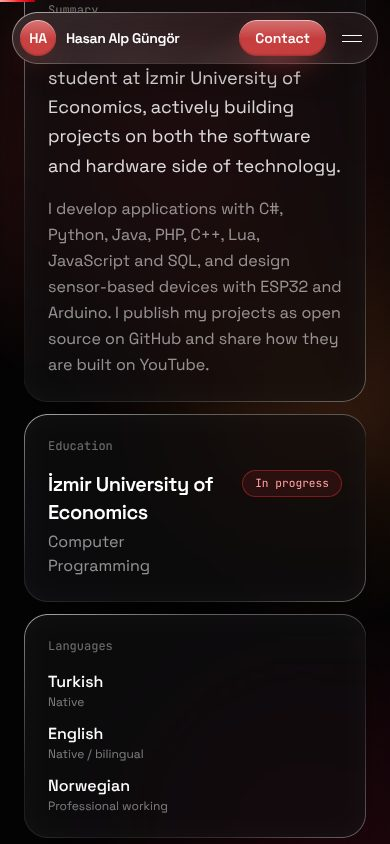
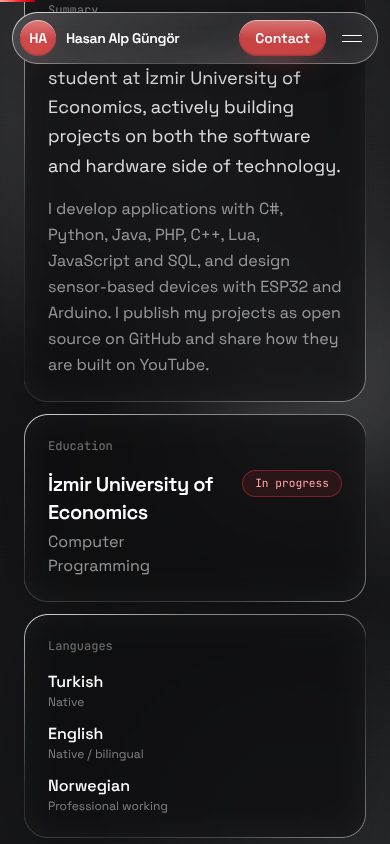
Gri ve beyaz liquid glass zemini
Arka plandaki kırmızı ışık gümüş ve beyaz tonlara çevrildi, cam yüzeyler daha buzlu ve parlak hale getirildi. Kartlardaki kırmızı parıltılar beyaza dönüştü.

diff --git a/app/globals.css b/app/globals.css
@@ -84,14 +84,14 @@ h2.ui-title-xl { font-size: clamp(2.6rem, 1.3rem + 5.6vw, 6.5rem); }
 }
 .ui-card,
 .glass {
-  background: linear-gradient(145deg, rgba(255, 255, 255, 0.09), rgba(255, 255, 255, 0.025) 55%, rgba(255, 255, 255, 0.05));
-  -webkit-backdrop-filter: blur(24px) saturate(180%);
-  backdrop-filter: blur(24px) saturate(180%);
+  background: linear-gradient(150deg, rgba(255, 255, 255, 0.14), rgba(255, 255, 255, 0.04) 50%, rgba(255, 255, 255, 0.08));
+  -webkit-backdrop-filter: blur(30px) saturate(160%) brightness(1.08);
+  backdrop-filter: blur(30px) saturate(160%) brightness(1.08);
   box-shadow:
-    inset 0 1px 0 rgba(255, 255, 255, 0.28),
-    inset 0 -1px 0 rgba(255, 255, 255, 0.06),
-    inset 0 0 24px rgba(255, 255, 255, 0.03),
-    0 18px 50px -20px rgba(0, 0, 0, 0.75);
+    inset 0 1px 0 rgba(255, 255, 255, 0.42),
+    inset 0 -1px 0 rgba(255, 255, 255, 0.1),
+    inset 0 0 32px rgba(255, 255, 255, 0.05),
+    0 20px 50px -22px rgba(0, 0, 0, 0.6);
   transition: background 0.35s ease, box-shadow 0.35s ease, transform 0.35s ease;
 }
 .glass { position: relative; }
@@ -103,7 +103,7 @@ h2.ui-title-xl { font-size: clamp(2.6rem, 1.3rem + 5.6vw, 6.5rem); }
   inset: 0;
   border-radius: inherit;
   padding: 1px;
-  background: linear-gradient(135deg, rgba(255, 255, 255, 0.5), rgba(255, 255, 255, 0.08) 30%, rgba(255, 255, 255, 0) 55%, rgba(255, 255, 255, 0.08) 75%, rgba(255, 255, 255, 0.32));
+  background: linear-gradient(135deg, rgba(255, 255, 255, 0.7), rgba(255, 255, 255, 0.12) 30%, rgba(255, 255, 255, 0.02) 55%, rgba(255, 255, 255, 0.12) 75%, rgba(255, 255, 255, 0.45));
   -webkit-mask: linear-gradient(#000 0 0) content-box, linear-gradient(#000 0 0);
   -webkit-mask-composite: xor;
   mask: linear-gradient(#000 0 0) content-box, linear-gradient(#000 0 0);
@@ -111,9 +111,9 @@ h2.ui-title-xl { font-size: clamp(2.6rem, 1.3rem + 5.6vw, 6.5rem); }
   pointer-events: none;
 }
 .ui-card:hover {
-  background: linear-gradient(145deg, rgba(255, 255, 255, 0.13), rgba(255, 255, 255, 0.04) 55%, rgba(255, 255, 255, 0.07));
+  background: linear-gradient(150deg, rgba(255, 255, 255, 0.19), rgba(255, 255, 255, 0.06) 50%, rgba(255, 255, 255, 0.1));
   box-shadow:
-    inset 0 1px 0 rgba(255, 255, 255, 0.4),
+    inset 0 1px 0 rgba(255, 255, 255, 0.55),
     inset 0 -1px 0 rgba(255, 255, 255, 0.08),
     inset 0 0 30px rgba(255, 255, 255, 0.05),
     0 24px 60px -20px rgba(0, 0, 0, 0.8);
@@ -140,7 +140,7 @@ h2.ui-title-xl { font-size: clamp(2.6rem, 1.3rem + 5.6vw, 6.5rem); }
   box-shadow:
     inset 0 1px 0 rgba(255, 255, 255, 0.55),
     inset 0 -1px 2px rgba(0, 0, 0, 0.25),
-    0 10px 30px -10px rgba(239, 68, 68, 0.7);
+    0 10px 26px -12px rgba(239, 68, 68, 0.55);
   transition: transform 0.25s cubic-bezier(0.2, 0.8, 0.2, 1), box-shadow 0.25s ease, background 0.25s ease;
 }
 .ui-btn { --icon-cut: #e0443c; }
@@ -150,7 +150,7 @@ h2.ui-title-xl { font-size: clamp(2.6rem, 1.3rem + 5.6vw, 6.5rem); }
   box-shadow:
     inset 0 1px 0 rgba(255, 255, 255, 0.65),
     inset 0 -1px 2px rgba(0, 0, 0, 0.25),
-    0 14px 36px -10px rgba(239, 68, 68, 0.85);
+    0 14px 32px -12px rgba(239, 68, 68, 0.7);
 }
 .ui-btn:active { transform: scale(0.97); }
 .ui-btn--ghost {
@@ -347,14 +347,14 @@ a.rounded-full:focus-visible { border-radius: 999px; }
   }
 }
 
-/* Liquid backdrop: slow, blurred red light that the glass refracts. */
+/* Liquid backdrop: slow, blurred silver light that the glass refracts. */
 .liquid-bg {
   position: fixed;
   inset: 0;
   z-index: -1;
   overflow: hidden;
   pointer-events: none;
-  background: #050304;
+  background: linear-gradient(160deg, #26272b 0%, #161618 45%, #1d1e21 100%);
 }
 .liquid-bg span {
   position: absolute;
@@ -362,16 +362,16 @@ a.rounded-full:focus-visible { border-radius: 999px; }
   will-change: transform;
   animation: liquid-drift 26s ease-in-out infinite alternate;
 }
-.liquid-bg span:nth-child(1) { width: 60vmax; height: 60vmax; left: -12vmax; top: -18vmax; background: radial-gradient(closest-side, rgba(239, 68, 68, 0.55), transparent); }
-.liquid-bg span:nth-child(2) { width: 52vmax; height: 52vmax; right: -16vmax; top: 18vh; background: radial-gradient(closest-side, rgba(249, 115, 22, 0.32), transparent); animation-duration: 32s; animation-delay: -8s; }
-.liquid-bg span:nth-child(3) { width: 58vmax; height: 58vmax; left: 18vw; bottom: -30vmax; background: radial-gradient(closest-side, rgba(190, 18, 60, 0.5), transparent); animation-duration: 38s; animation-delay: -14s; }
-.liquid-bg span:nth-child(4) { width: 34vmax; height: 34vmax; left: 46vw; top: 30vh; background: radial-gradient(closest-side, rgba(255, 140, 120, 0.18), transparent); animation-duration: 22s; animation-delay: -4s; }
-/* Darkens the light so text stays readable. */
+.liquid-bg span:nth-child(1) { width: 62vmax; height: 62vmax; left: -14vmax; top: -20vmax; background: radial-gradient(closest-side, rgba(255, 255, 255, 0.26), transparent); }
+.liquid-bg span:nth-child(2) { width: 54vmax; height: 54vmax; right: -18vmax; top: 16vh; background: radial-gradient(closest-side, rgba(210, 214, 222, 0.22), transparent); animation-duration: 32s; animation-delay: -8s; }
+.liquid-bg span:nth-child(3) { width: 60vmax; height: 60vmax; left: 16vw; bottom: -32vmax; background: radial-gradient(closest-side, rgba(170, 174, 184, 0.24), transparent); animation-duration: 38s; animation-delay: -14s; }
+.liquid-bg span:nth-child(4) { width: 36vmax; height: 36vmax; left: 46vw; top: 28vh; background: radial-gradient(closest-side, rgba(255, 255, 255, 0.14), transparent); animation-duration: 22s; animation-delay: -4s; }
+/* Keeps white text readable on top of the light. */
 .liquid-bg::after {
   content: '';
   position: absolute;
   inset: 0;
-  background: radial-gradient(120% 90% at 50% 40%, rgba(3, 3, 3, 0.35), rgba(3, 3, 3, 0.78));
+  background: radial-gradient(120% 90% at 50% 40%, rgba(12, 12, 14, 0.1), rgba(12, 12, 14, 0.5));
 }
 @keyframes liquid-drift {
   0% { transform: translate3d(0, 0, 0) scale(1); }

diff --git a/lib/data.ts b/lib/data.ts
@@ -27,7 +27,7 @@ export const CONCEPTS: Concept[] = [
     repo: `${GH}/s26-ultra-concept`,
     img: '/projects/s26-ultra.jpg',
     shot: true,
-    glow: 'radial-gradient(60% 60% at 50% 50%, rgba(239, 68, 68, 0.22), transparent 72%)',
+    glow: 'radial-gradient(60% 60% at 50% 50%, rgba(255, 255, 255, 0.14), transparent 72%)',
     text: {
       tr: 'Telefonu scroll\'ladıkça dönen ve parçalarına ayrılan bir 3D modele dönüştürdüm. S25 Ultra ile karşılaştırma, renk seçici ve AR görüntüleme de ekledim.',
       en: 'I turned the phone into a 3D model that turns and comes apart as you scroll, and added an S25 Ultra comparison, a color picker and AR viewing.',

diff --git a/components/MoreWork.tsx b/components/MoreWork.tsx
@@ -34,8 +34,7 @@ export default function MoreWork() {
             >
               <div
                 aria-hidden
-                className="absolute -top-24 -right-24 w-64 h-64 rounded-full opacity-25 blur-3xl transition-opacity duration-500 group-hover:opacity-45"
-                style={{ background: p.accent }}
+                className="absolute -top-24 -right-24 w-64 h-64 rounded-full bg-white opacity-[0.07] blur-3xl transition-opacity duration-500 group-hover:opacity-[0.14]"
               />
               <div className="flex items-center justify-between">
                 <span className="flex items-center gap-2 ui-label ui-label--plain !text-[0.65rem]">

diff --git a/app/layout.tsx b/app/layout.tsx
@@ -20,12 +20,12 @@ export const metadata: Metadata = {
   twitter: { card: 'summary_large_image', title, description },
 };
 
-export const viewport: Viewport = { themeColor: '#030303' };
+export const viewport: Viewport = { themeColor: '#161618' };
 
 export default function RootLayout({ children }: { children: React.ReactNode }) {
   return (
     <html lang="tr" className="antialiased selection:bg-red-500/30" suppressHydrationWarning>
-      <body className="bg-[#030303] text-white" suppressHydrationWarning>
+      <body className="bg-[#161618] text-white" suppressHydrationWarning>
         {children}
       </body>
     </html>

diff --git a/README.md b/README.md
@@ -12,7 +12,7 @@ My personal site and portfolio: who I am, my education, skills, projects and vid
 - **My videos:** a selection from my YouTube channel, where I bring CS2 into real life with ESP32 builds.
 - **My projects:** a pinned, horizontally scrolling gallery of my S26 Ultra, Buds4 Pro, Watch Ultra2 and Ring concept sites.
 - **Turkish and English:** switch from the navbar; the choice is remembered.
-- Liquid glass design: translucent, blurred surfaces with rim highlights over a slowly moving red light, a floating capsule navbar and glass buttons.
+- Liquid glass design: translucent, blurred surfaces with rim highlights over a slowly moving silver light, a floating capsule navbar and glass buttons.
 
 ## Screenshots
 
